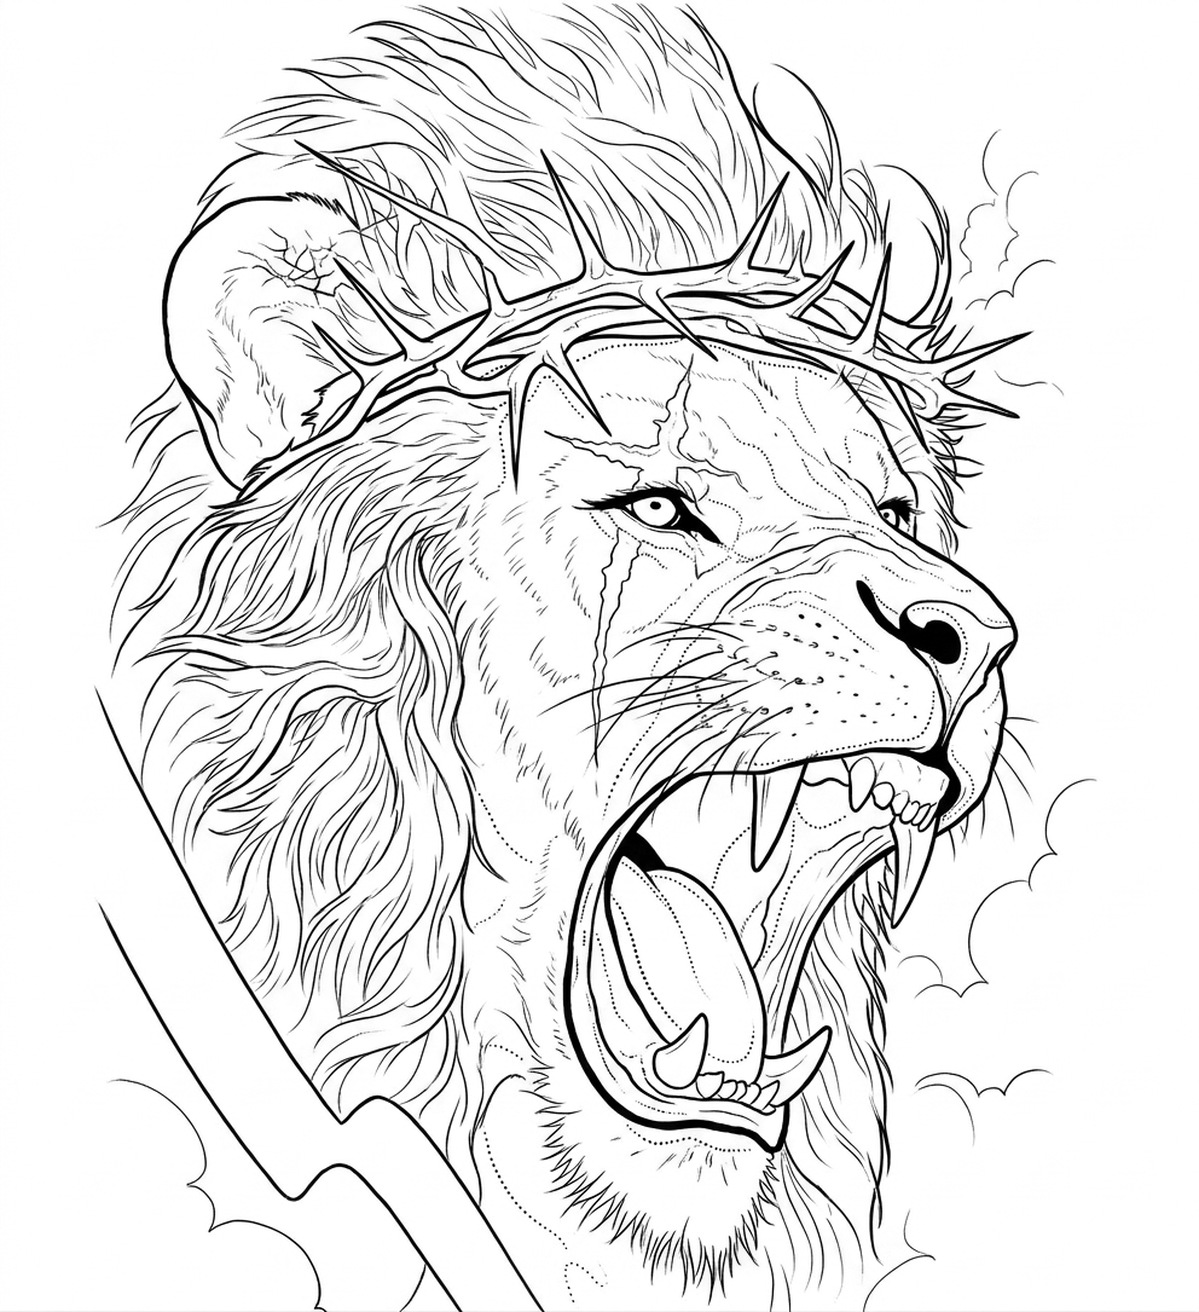
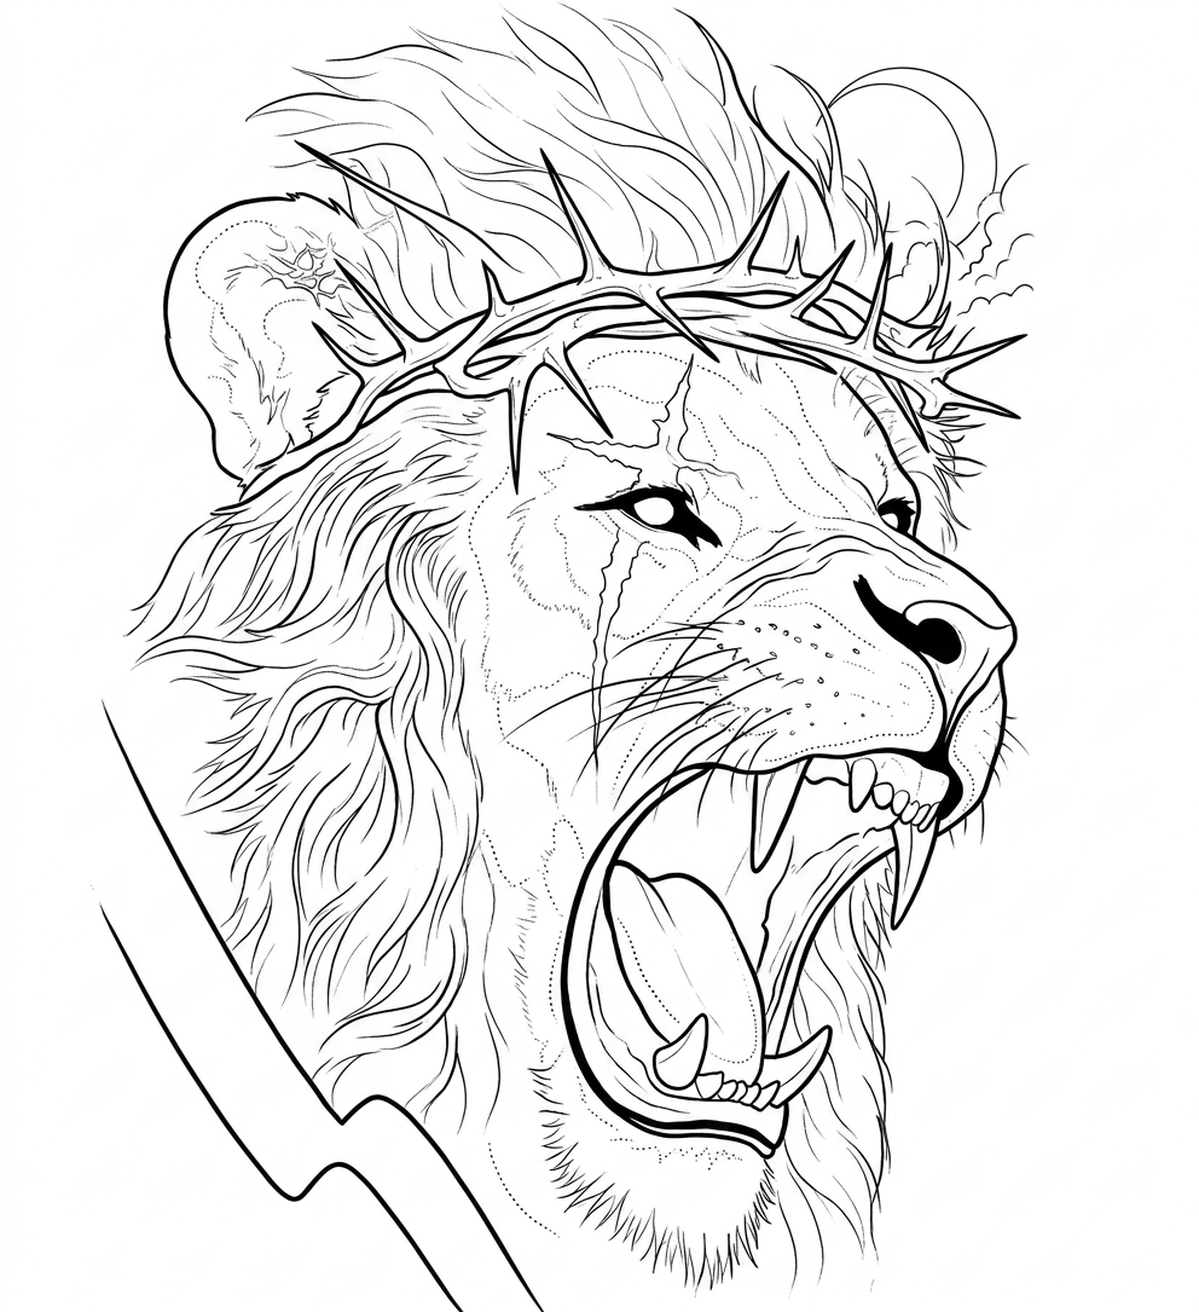
auto-commit for 384b2be8-4eaf-4723-85af-b00194755f0b

diff --git a/backend/server.py b/backend/server.py
@@ -2081,6 +2081,23 @@ ZERO-FILL RULE (hard constraint — if any fill appears, the output is incorrect
 - No filled regions of any kind — not eyes, not pupils, not hair shadows, not face paint, not background, not anywhere.
 - EYES / PUPILS / IRISES: pupils are HOLLOW CIRCLE OUTLINES only — never filled black, never solid, never dark. Irises are hollow concentric outlines only. Even if the reference shows a very dark pupil, render it as an outline. Solid-black pupils are a FAILURE CONDITION.
 - The background is pure white even if the reference background is dark. Do not invert. Do not reproduce the reference background as a dark shape.
+
+DARK REGION HANDLING (critical — zero-fill applies even when the reference is black):
+The reference image contains naturally dark areas. The model MUST NOT fill these regions with solid black in the stencil. "Zero fill" applies even where the reference appears black. The stencil represents STRUCTURE, not DARKNESS.
+
+For ANY naturally dark region in the reference — including but not limited to eye sockets, pupils, irises, nostrils, inside-the-mouth interior (lips parted, mouth open), teeth shadows, tongue, deep recessed cavities, under-brow shadows, under-chin shadows, hair-part shadows, inside-ear, inside any concave / hollow form:
+- Outline the BOUNDARY of the dark region with a contour line.
+- Use line work to describe the SHAPE of the region.
+- Use internal contour lines to indicate depth and the sub-structures inside the region (e.g. individual teeth outlines, tongue outline, palate curvature) — all as line work.
+- Do NOT fill. Do NOT render as a solid dark shape. Do NOT use gray. Do NOT render "black" pixels to mean "this area is dark in the reference".
+
+Specific per-region enforcement (apply every time the reference shows any of these):
+- Eye sockets → hollow outlines of the socket rim and the eye form inside. If the reference shows a darkened socket, draw the socket rim, the eyelid curvature, and a hollow iris/pupil outline. No solid fill anywhere in the eye region.
+- Nostrils → outlined shapes only. Draw the nostril opening as a curved line on its perimeter. Never a filled dark shape.
+- Inside the mouth (when visible) → contour lines for the tongue, outlines for each individual tooth, line for the lip-interior edge, lines indicating palate / inner cheek curvature. Never a filled dark mass between the lips.
+- Recessed cavities (any hollow opening in any subject) → rim outline + internal structural outlines. Never a filled darker patch.
+- Any solid-black region in the output is a FAILURE CONDITION, regardless of what the reference shows in that region.
+
 - Face paint, makeup, scars, skull-paint patterns, tattoos are drawn as OUTLINES in their exact reference positions — never as filled shapes.
 - Do not use crosshatching, stippling, gradients, or any mark pattern intended to simulate tone.
 - Dotted/dashed marks are permitted ONLY as the DOTTED tier defined below (facial guides, form transitions, light-placement hints). They are never used to simulate tonal fills.
